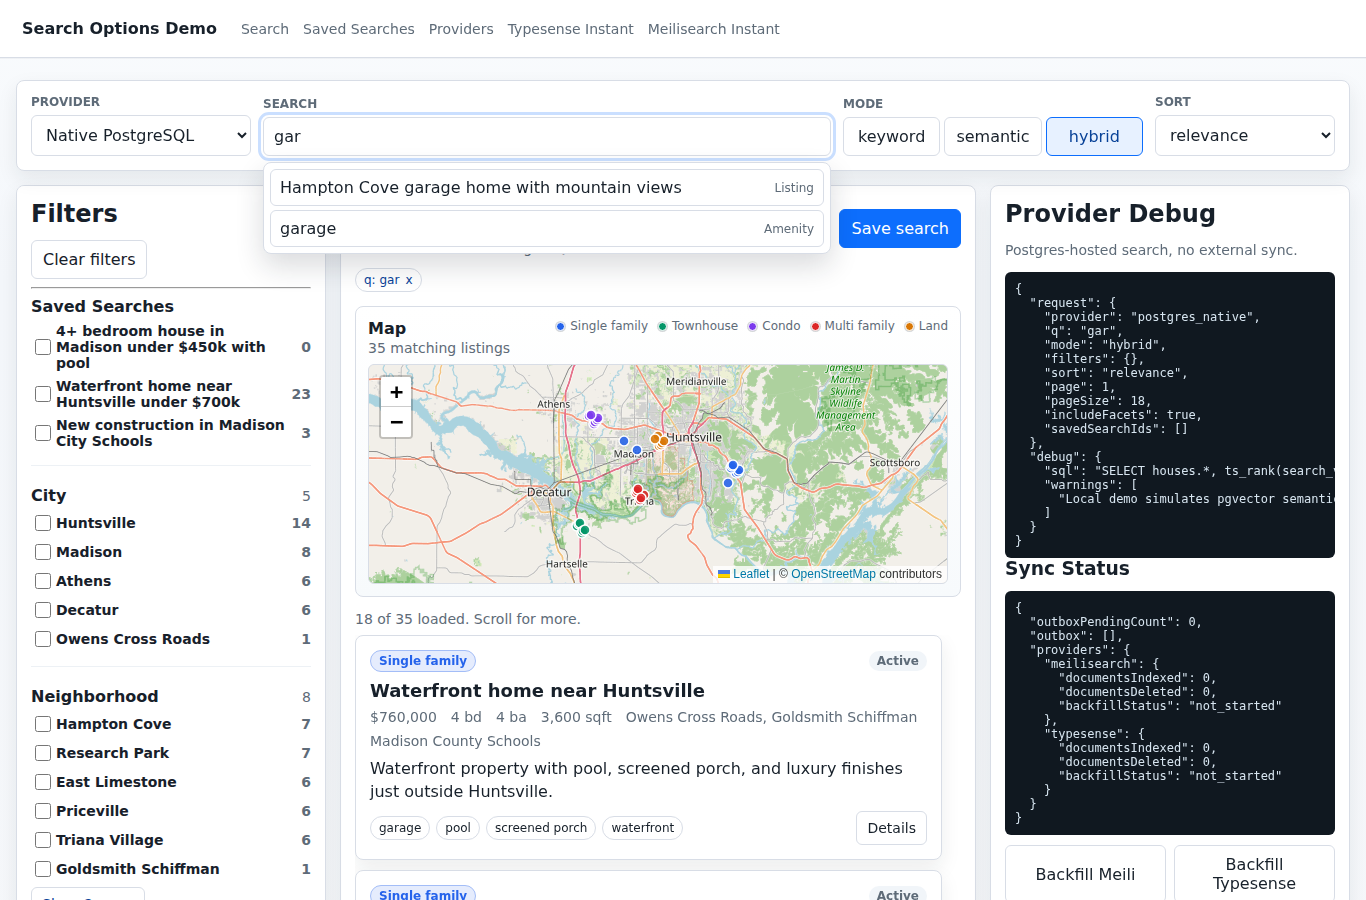
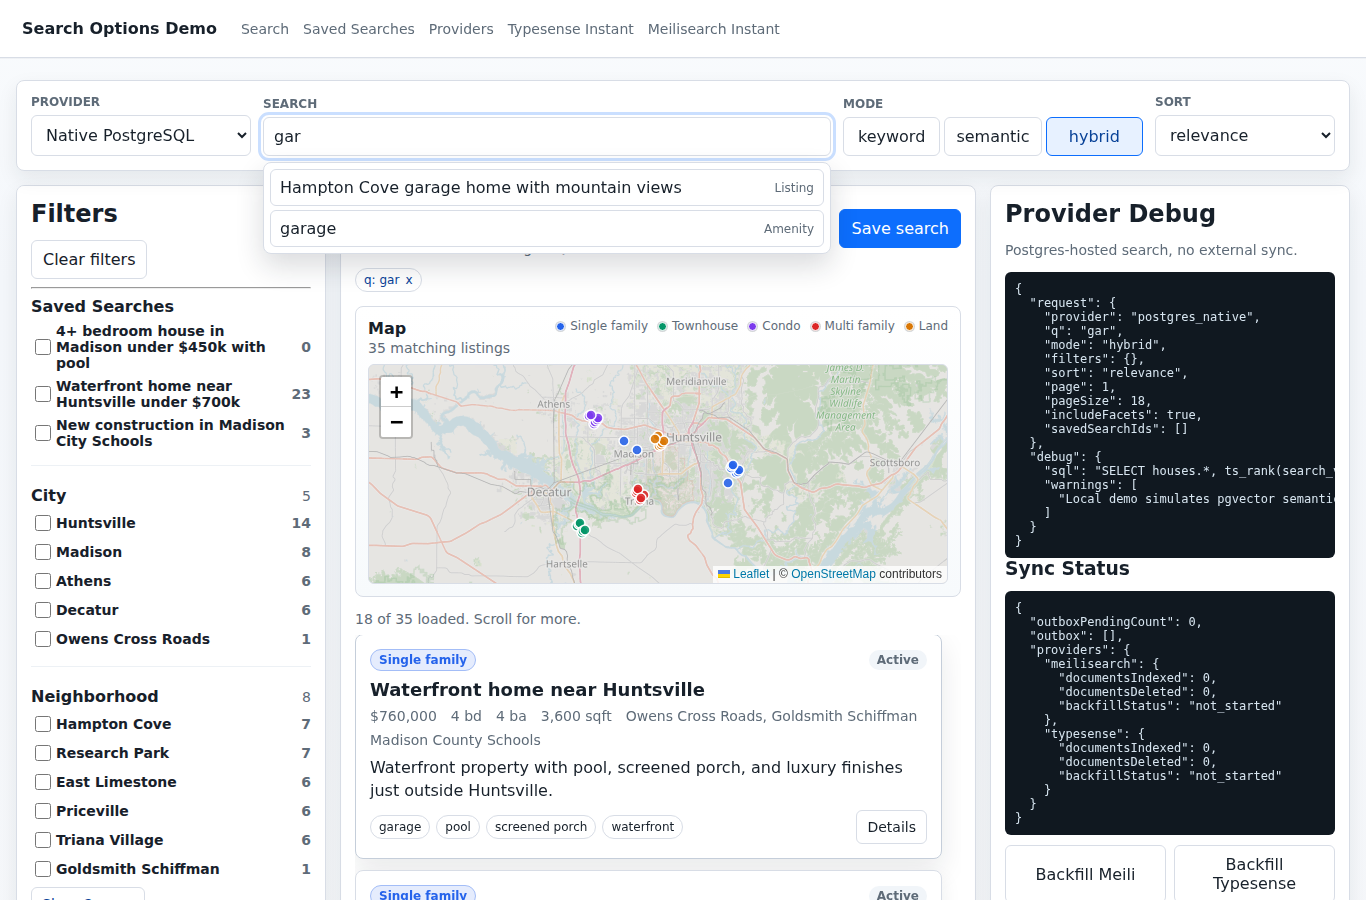
Speed up screenshot automation

diff --git a/scripts/capture-screenshots.ts b/scripts/capture-screenshots.ts
@@ -41,6 +41,28 @@ async function capture(page: Page, path: string) {
   console.log(`captured ${path}`);
 }
 
+async function goto(page: Page, path: string) {
+  await page.goto(path, { waitUntil: 'domcontentloaded' });
+}
+
+async function waitForSearchReady(page: Page, expected?: { loaded?: number; total?: number }) {
+  await page.locator('.leaflet-container').waitFor();
+  await page.locator('.leaflet-interactive').first().waitFor();
+  await page.locator('#result-list-scroll').waitFor();
+  await page.waitForFunction(
+    ({ loaded: expectedLoaded, total: expectedTotal }) => {
+      const element = document.querySelector('#result-list-scroll');
+      const loaded = Number(element?.getAttribute('data-loaded-count') ?? 0);
+      const total = Number(element?.getAttribute('data-total-count') ?? 0);
+      if (!loaded || !total) return false;
+      if (expectedLoaded !== undefined && loaded !== expectedLoaded) return false;
+      if (expectedTotal !== undefined && total !== expectedTotal) return false;
+      return true;
+    },
+    expected ?? {}
+  );
+}
+
 async function main() {
   await ensureServer();
   const browser = await chromium.launch();
@@ -48,32 +70,31 @@ async function main() {
 
   await page.request.post('/api/seed');
 
-  await page.goto('/search?q=hampton%20cove%20garage');
-  await page.locator('.leaflet-container').waitFor();
-  await page.waitForTimeout(1000);
+  await goto(page, '/search?q=hampton%20cove%20garage');
+  await waitForSearchReady(page, { loaded: 18, total: 47 });
   await capture(page, 'docs/screenshots/search-results.png');
 
-  await page.getByRole('textbox', { name: 'Search' }).fill('gar');
-  await page.getByRole('button', { name: /garage\s+Amenity/i }).waitFor();
-  await page.getByText(/35 hits from Native PostgreSQL/i).waitFor();
-  await page.getByText(/18 of 35 loaded/i).waitFor();
-  await page.waitForTimeout(300);
-  await capture(page, 'docs/screenshots/search-suggestions.png');
-
-  await page.goto('/search?q=hampton%20cove%20garage');
   await page.locator('.result[data-house-id="target-hampton-cove-garage"]').click();
   await page.getByRole('dialog', { name: /Hampton Cove garage home/i }).waitFor();
   await capture(page, 'docs/screenshots/hit-details.png');
+  await page.keyboard.press('Escape');
+  await page.getByRole('dialog', { name: /Hampton Cove garage home/i }).waitFor({ state: 'hidden' });
 
-  await page.goto('/search');
+  await page.getByRole('textbox', { name: 'Search' }).fill('gar');
+  await page.getByRole('button', { name: /garage\s+Amenity/i }).waitFor();
+  await waitForSearchReady(page, { loaded: 18, total: 35 });
+  await capture(page, 'docs/screenshots/search-suggestions.png');
+
+  await goto(page, '/search');
+  await waitForSearchReady(page);
   const saved = page.locator('.facet-group[data-facet="saved-searches"] .facet-option').filter({ hasText: 'Waterfront home near Huntsville' });
   await saved.locator('input').check();
   await page.getByRole('button', { name: /saved: Waterfront home near Huntsville/i }).waitFor();
-  await page.waitForTimeout(1000);
+  await waitForSearchReady(page, { loaded: 18, total: 23 });
   await capture(page, 'docs/screenshots/saved-search-scope.png');
 
-  await page.goto('/providers');
-  await page.waitForTimeout(500);
+  await goto(page, '/providers');
+  await page.getByRole('heading', { name: 'Provider Comparison' }).waitFor();
   await capture(page, 'docs/screenshots/provider-comparison.png');
 
   await browser.close();

diff --git a/README.md b/README.md
@@ -120,7 +120,7 @@ npm run verify:full-stack
 
 The Playwright suite covers live debounced search, search suggestions, virtualized infinite results, facet limiting, removable refinement chips, clickable result chips, saved-search scoping, provider switching, direct InstantSearch routes, and external sync controls.
 
-Screenshots are generated by `npm run screenshots:update`. This clone is configured to use the committed `githooks/pre-push` hook, which runs the screenshot script before push and blocks if generated screenshots need to be committed. GitHub Actions also generates screenshot artifacts on every push and pull request.
+Screenshots are generated by `npm run screenshots:update`. GitHub Actions generates screenshot artifacts on every push and pull request. The committed `githooks/pre-push` hook is fast by default; set `RUN_SCREENSHOT_PRE_PUSH=1` when you want local pushes to regenerate screenshots and block on uncommitted image diffs.
 
 ## Demo Commands
 
